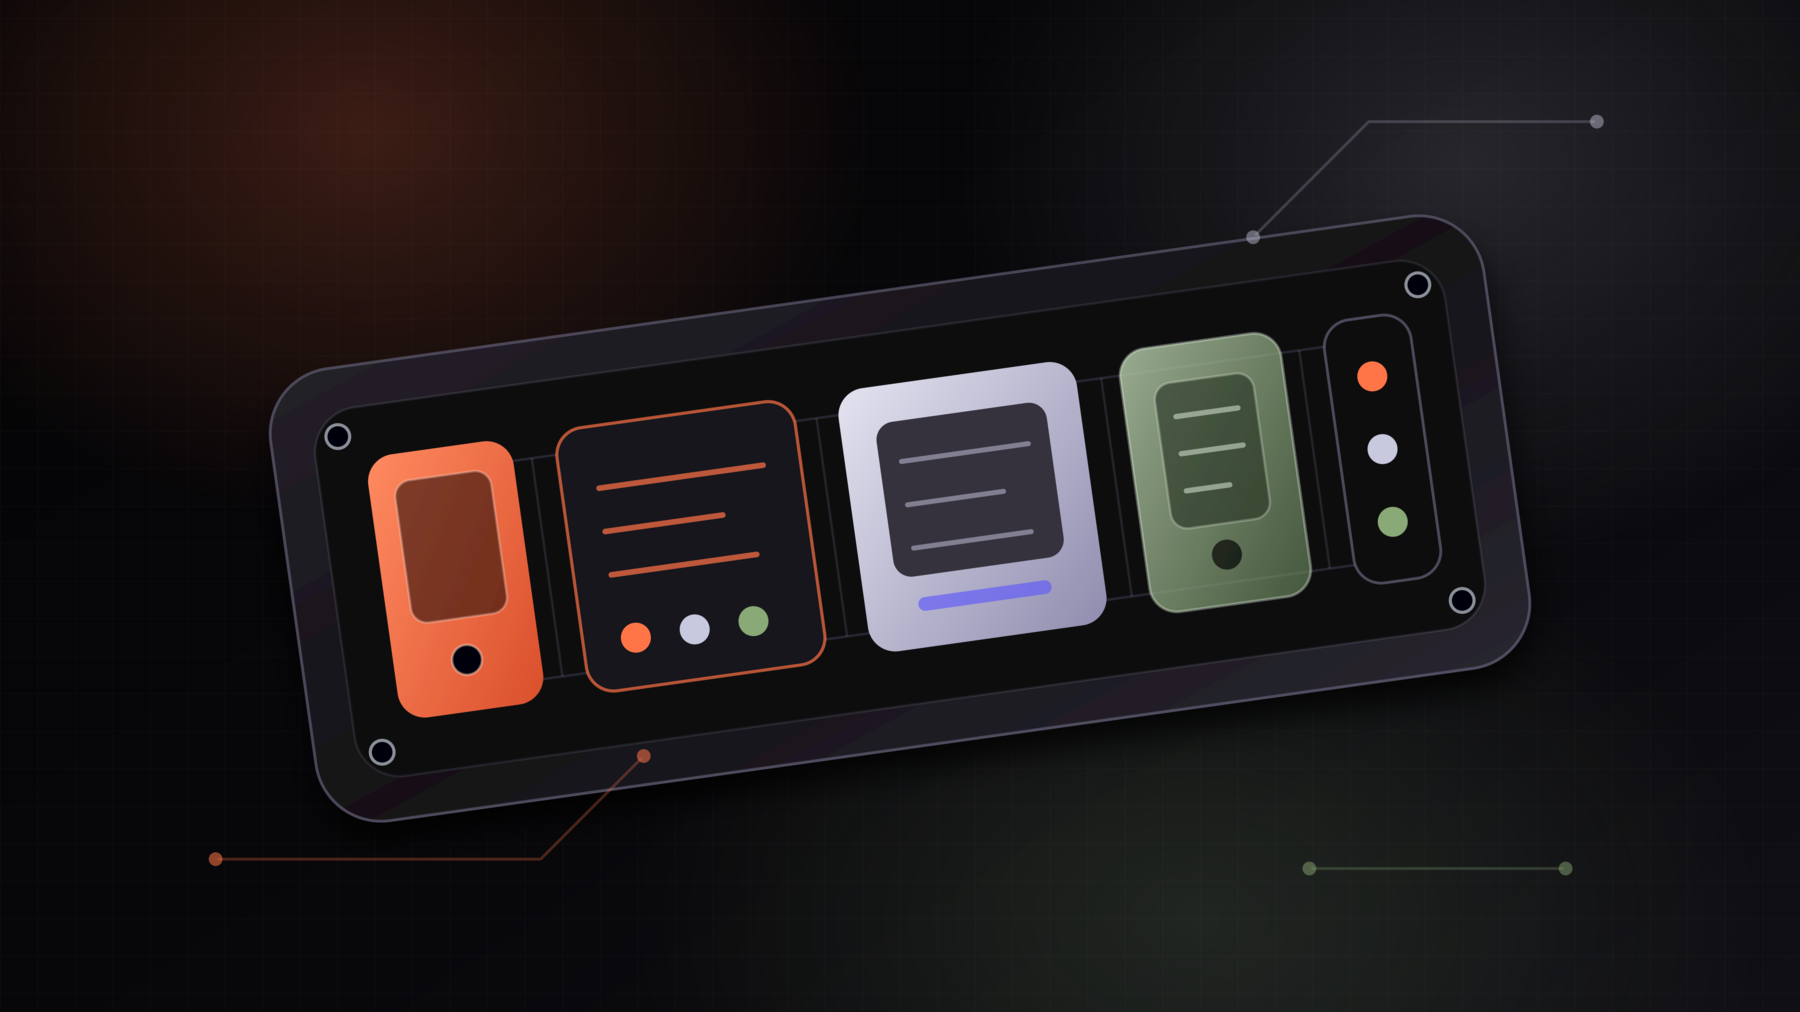
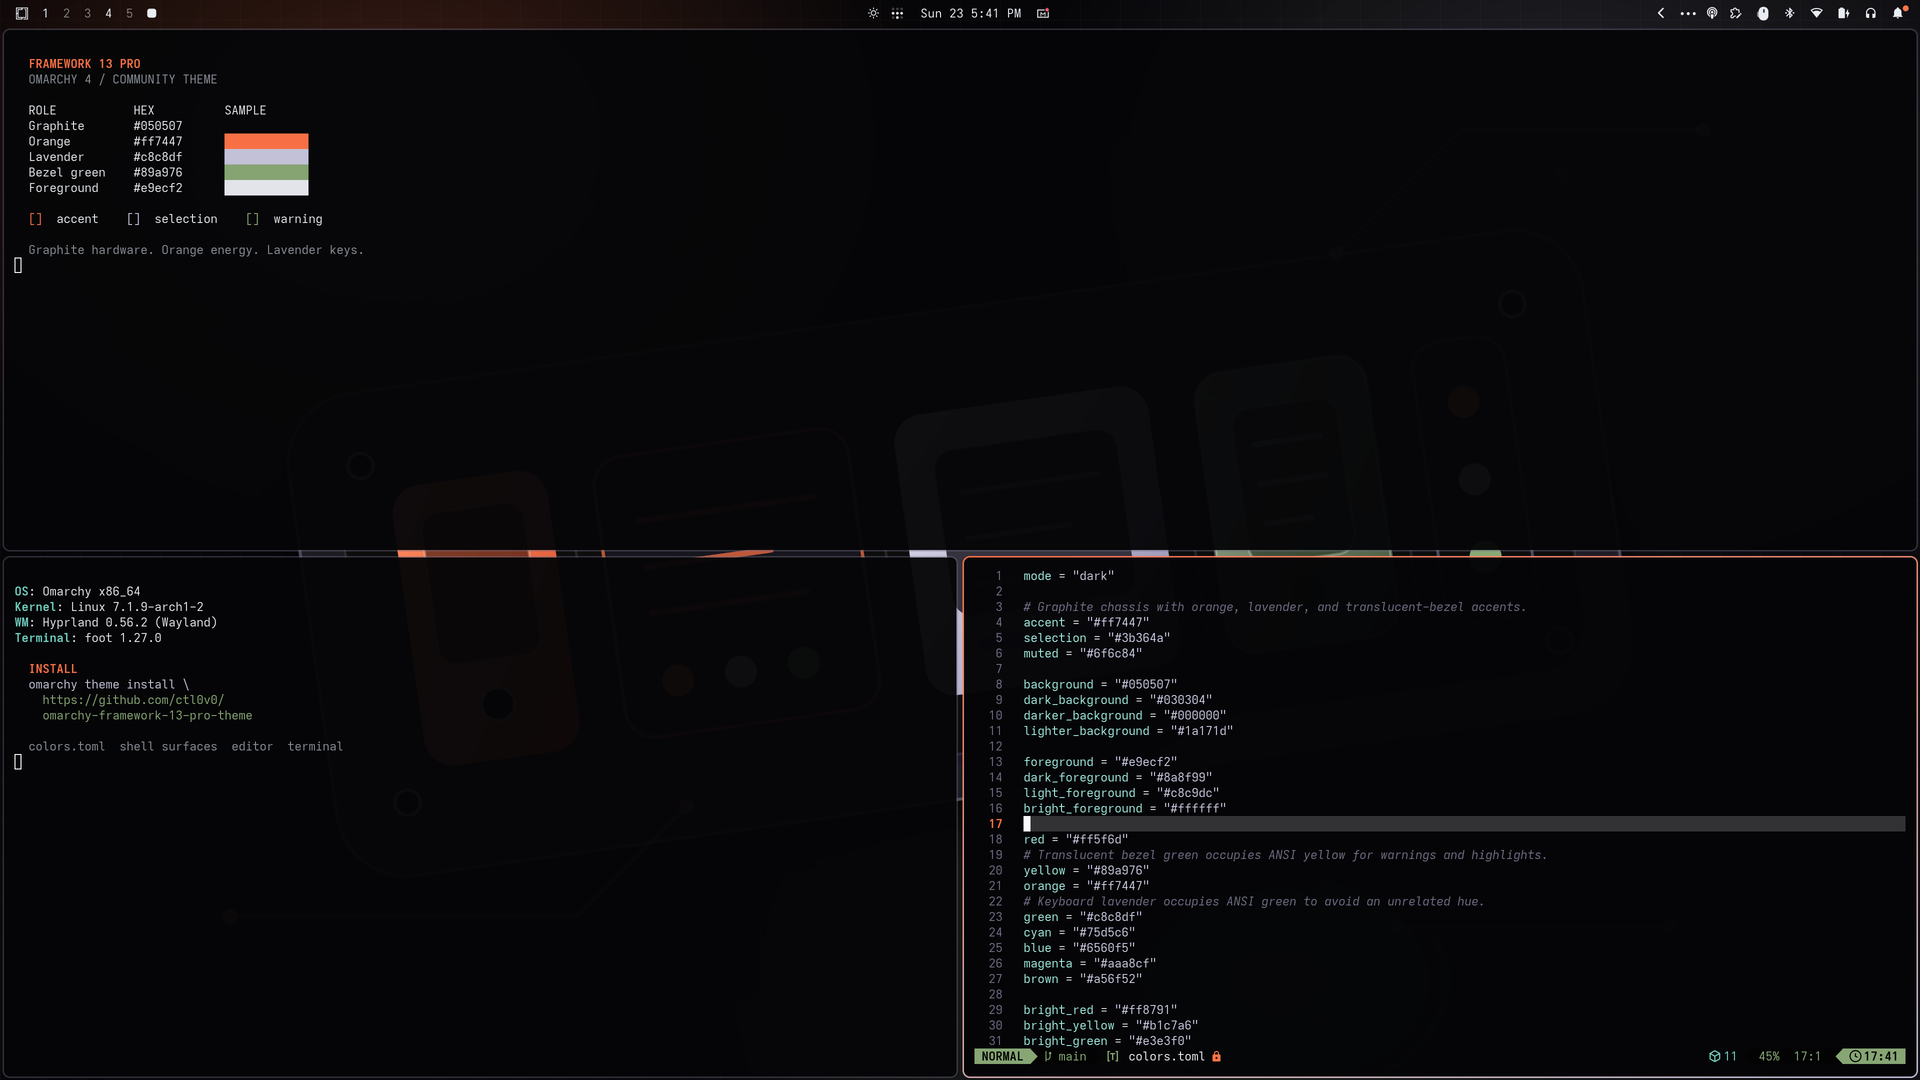
Add desktop theme screenshots

diff --git a/README.md b/README.md
@@ -29,7 +29,7 @@ theme appears as `Framework 13 Pro`.
 - Orange-to-lavender active window border
 - Translucent Omarchy bar, menu, popup, notification, lock, and policy surfaces
 - Portable `Yaru-purple` file-manager icon selection
-- Original dark modular wallpaper and matching theme preview
+- Original dark modular wallpaper and real desktop preview
 
 Omarchy generates configurations for supported terminals, editors, browsers,
 Hyprland, and shell components from `colors.toml` when the theme is activated.
@@ -37,6 +37,13 @@ Hyprland, and shell components from `colors.toml` when the theme is activated.
 The ANSI yellow slot intentionally uses translucent-bezel green, while the ANSI
 green slot uses keyboard lavender. This preserves the product-inspired palette
 but differs from conventional terminal color naming.
+
+## Screenshots
+
+The main preview shows the generated terminal palette, Neovim colors, active
+window border, translucent surfaces, and included wallpaper on Omarchy 4.
+
+![Framework 13 Pro desktop with Files, themed terminal, and notification](screenshots/shell-surfaces.png)
 
 ## Official Framework Wallpapers
 
